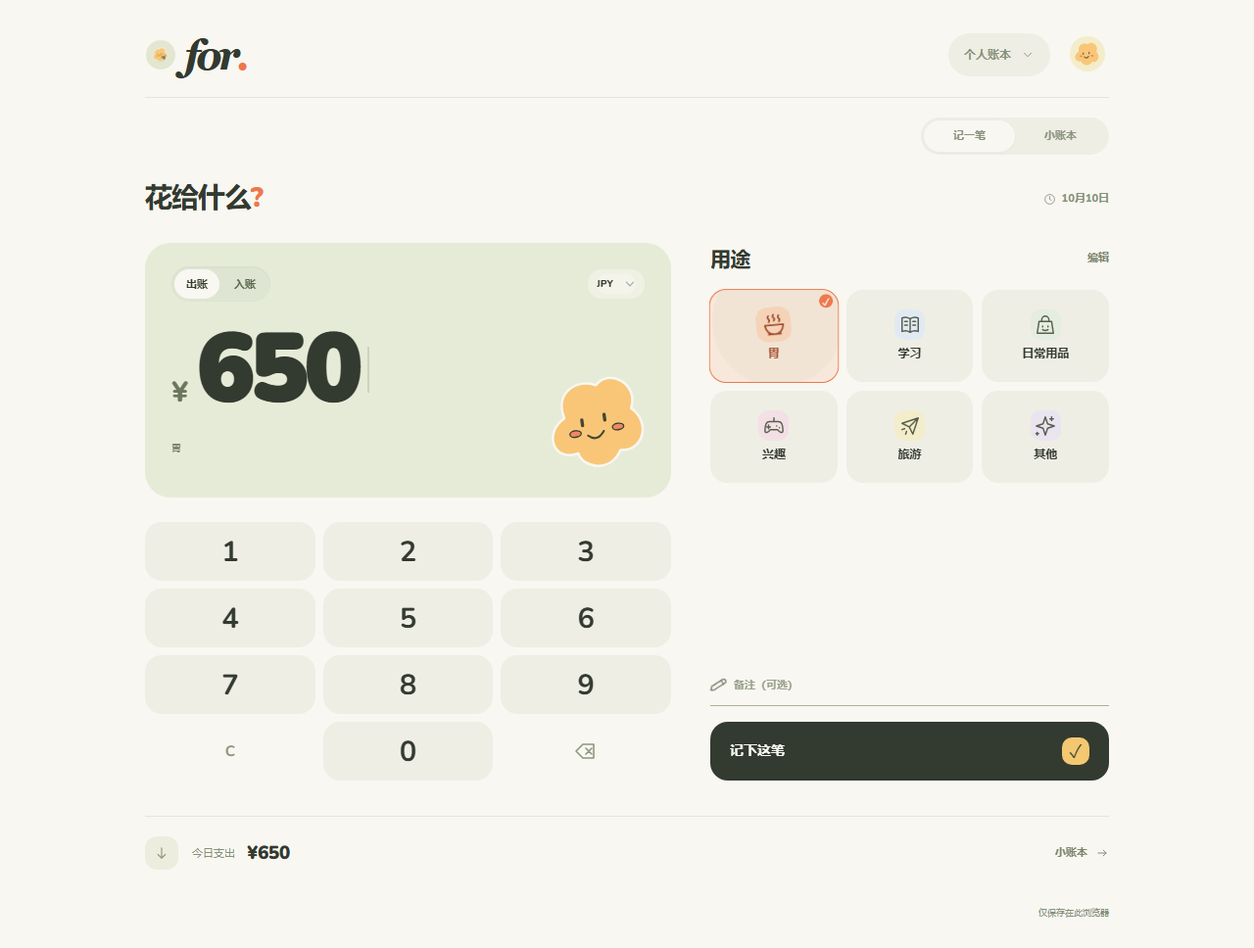
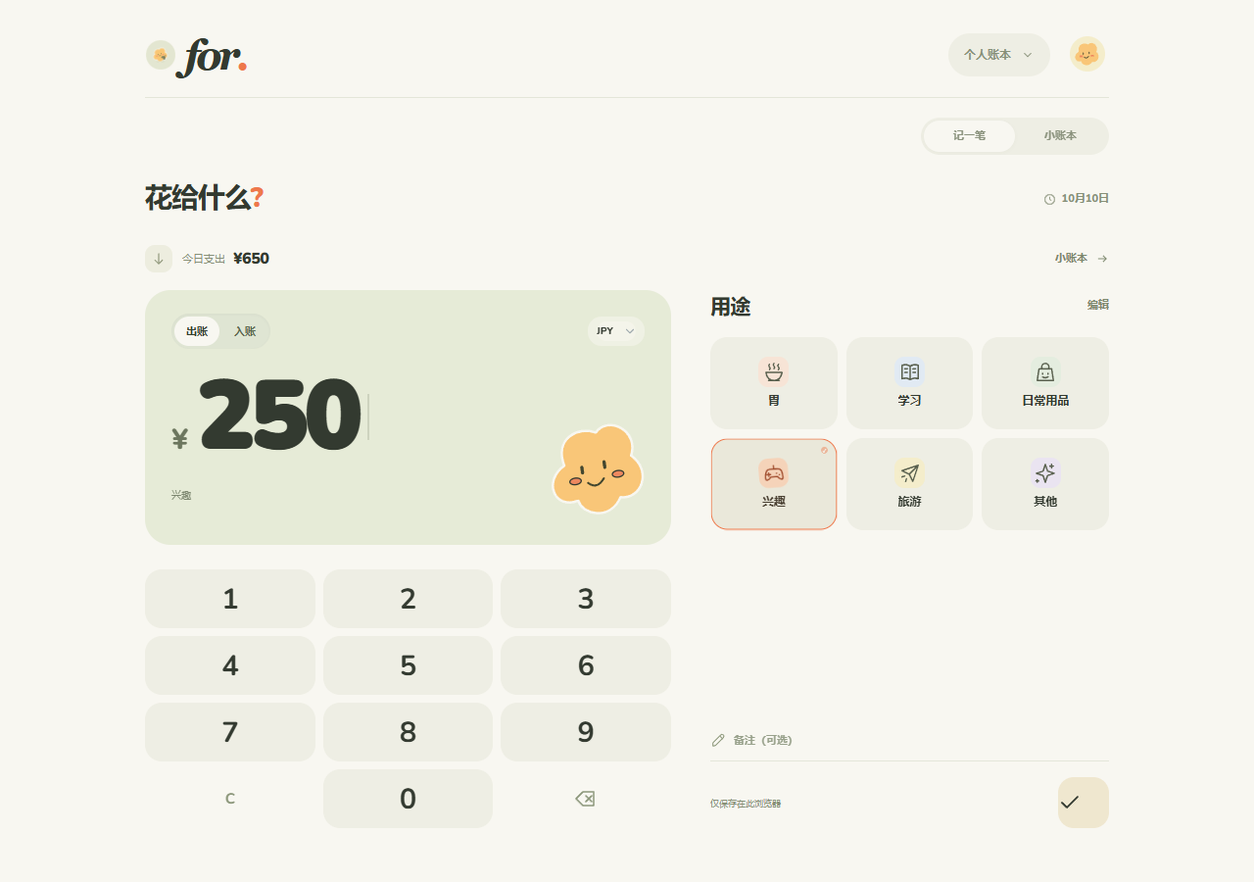
ui: compact bottom confirmation and migrate handoff to Cloud Run

diff --git a/src/App.jsx b/src/App.jsx
@@ -203,6 +203,7 @@ export default function App() {
   const historyExpense = total(history, 'expense'), historyIncome = total(history, 'income');
   const days = [...new Set(history.map(e => e.dayKey))];
   const saveLabel = t(busy ? 'saving' : !amountMinor ? 'enterAmount' : !draft.selected ? 'selectCategory' : draft.type === 'income' ? 'saveIncome' : 'save');
+  const storageStatus = <div className="storage-state"><span id="storage-status" role="status">{t(failed ? 'unavailable' : !ready ? 'loading' : syncFailed ? 'syncFailed' : isRemote ? 'remoteStorage' : 'localStorage')}</span>{failed && <Button mode="plain" size="s" onClick={() => setRetryCount(n => n + 1)}>{t('retry')}</Button>}</div>;
   const secondary = !['record','history'].includes(view);
   const titleKey = { record: draft.type === 'income' ? 'incomeTitle' : 'recordTitle', history: 'historyTitle', settings: 'settingsTitle', profile: 'myProfile', account: 'accountTitle', circles: 'circlesTitle', manage: 'manageTitle' }[view];
   return <AppRoot appearance="light" platform={['ios','macos'].includes(telegram?.platform) ? 'ios' : 'base'} className="for-root" data-ui-kit="telegram-ui"><div className="app-shell">
@@ -212,18 +213,18 @@ export default function App() {
     </header>
     {!secondary && <SegmentedControl className="view-tabs" aria-label={t('navigation')}>{['record','history'].map(v => <SegmentedControl.Item key={v} className="tab" data-view={v} selected={view === v} aria-selected={view === v} onClick={() => navigate(v)}>{t(v === 'record' ? 'record' : 'ledger')}</SegmentedControl.Item>)}</SegmentedControl>}
     <main key={view} ref={pageRef} id={`${view}-view`} className="page"><div className="page-heading"><h1 id={`${view}-title`} tabIndex={-1}>{t(titleKey)}{view === 'record' && <span>?</span>}</h1>{secondary ? <Button mode="plain" size="s" className="text-button" onClick={() => navigate(view === 'settings' ? 'record' : 'settings')}>{t('back')}</Button> : view === 'record' && <Button id="edit-draft-time" mode="plain" className={`date-label date-button ${draft.occurredAt ? 'has-custom-time' : ''}`} aria-label={t('editEntryTime')} disabled={disabled} onClick={() => setTimeEditor({})}><Icon name="clock"/>{new Intl.DateTimeFormat(locale, { month:'short',day:'numeric', ...(draft.occurredAt ? { hour:'2-digit',minute:'2-digit',hourCycle:'h23' } : {}) }).format(new Date(draft.occurredAt || Date.now()))}</Button>}</div>
-    {view === 'record' && <><div className="record-layout"><section ref={stageRef} className={`amount-stage ${draft.raw.length >= 6 ? 'long-amount' : ''} ${draft.type === 'income' ? 'is-income' : ''}`} aria-label={t('amountInput')}><div className="amount-meta"><div className="type-toggle-pill" role="group" aria-label={t('transactionType')}>{['expense','income'].map(type => <Tappable Component="button" type="button" key={type} className={`type-pill-btn ${draft.type === type ? `active type-${type}` : ''}`} aria-pressed={draft.type === type} disabled={disabled} onClick={() => { editDraft({ type, selected:null }); haptic(); }}>{t(type)}</Tappable>)}</div><Select id="currency" className="currency-control" aria-label={t('currency')} value={settings.currency} disabled={disabled} onChange={e => updateSettings({ currency: e.target.value })}>{Object.keys(CURRENCIES).map(c => <option key={c} value={c}>{c}</option>)}</Select></div><div className="amount-line"><span className="currency-symbol">{draft.type === 'income' ? '+' : ''}{CURRENCIES[settings.currency].symbol}</span><output id="amount-display" data-length={draft.raw.length < 6 ? 'short' : draft.raw.length > 9 ? 'long' : draft.raw.length} aria-label={t('currentAmount')}>{amount}</output><span className="input-caret" aria-hidden="true"/></div><div className="amount-bottom"><span>{draft.selected ? categoryLabel(categories.find(c => c.id === draft.selected) || {}, settings.language) : ''}</span></div><Mascot mascotRef={mascotRef}/></section>
+    {view === 'record' && <><div className="today-strip"><span className="today-icon" aria-hidden="true"><Icon name="arrowDown"/></span><div><span>{t('todayTotal')}</span><strong id="today-total">{money(todayExpense)}</strong></div><Button mode="plain" className="text-button" onClick={() => navigate('history')}>{t('ledger')}<Icon name="arrowRight"/></Button></div><div className="record-layout"><section ref={stageRef} className={`amount-stage ${draft.raw.length >= 6 ? 'long-amount' : ''} ${draft.type === 'income' ? 'is-income' : ''}`} aria-label={t('amountInput')}><div className="amount-meta"><div className="type-toggle-pill" role="group" aria-label={t('transactionType')}>{['expense','income'].map(type => <Tappable Component="button" type="button" key={type} className={`type-pill-btn ${draft.type === type ? `active type-${type}` : ''}`} aria-pressed={draft.type === type} disabled={disabled} onClick={() => { editDraft({ type, selected:null }); haptic(); }}>{t(type)}</Tappable>)}</div><Select id="currency" className="currency-control" aria-label={t('currency')} value={settings.currency} disabled={disabled} onChange={e => updateSettings({ currency: e.target.value })}>{Object.keys(CURRENCIES).map(c => <option key={c} value={c}>{c}</option>)}</Select></div><div className="amount-line"><span className="currency-symbol">{draft.type === 'income' ? '+' : ''}{CURRENCIES[settings.currency].symbol}</span><output id="amount-display" data-length={draft.raw.length < 6 ? 'short' : draft.raw.length > 9 ? 'long' : draft.raw.length} aria-label={t('currentAmount')}>{amount}</output><span className="input-caret" aria-hidden="true"/></div><div className="amount-bottom"><span>{draft.selected ? categoryLabel(categories.find(c => c.id === draft.selected) || {}, settings.language) : ''}</span></div><Mascot mascotRef={mascotRef}/></section>
       <section className="purposes"><div className="section-heading"><h2>{t('categories')}</h2>{(!circle || circle.isAdmin) && <Button className="text-button" id="edit-categories" mode="plain" size="s" disabled={disabled} onClick={startEditing}>{t('editCategories')}</Button>}</div><Categories categories={categories} lang={settings.language} selected={draft.selected} disabled={disabled} onSelect={id => { editDraft({ selected:id }); haptic(); }}/></section>
       <section id="keypad" className="keypad" aria-label={t('keypad')}>{['1','2','3','4','5','6','7','8','9',digits ? '.' : 'clear','0','backspace'].map(key => <Tappable Component="button" type="button" className={`key ${key.length > 1 || key === '.' ? 'key-secondary' : ''}`} key={key} data-key={key} disabled={disabled} aria-label={key === 'clear' ? t('clear') : key === 'backspace' ? t('backspace') : key === '.' ? t('decimal') : key} onPointerDown={() => { if (!reduced && !disabled) stageRef.current?.setAttribute('data-press', 'true'); }} onClick={() => { pushKey(key); haptic(); }}>{key === 'clear' ? 'C' : key === 'backspace' ? <Icon name="backspace"/> : key === '.' ? decimal : key}</Tappable>)}</section>
-      <section className="finish" aria-label={t('save')}>{circle && settings.consumers.length > 1 && <Select id="consumer" className="member-select" header={t(draft.type === 'income' ? 'incomeOwner' : 'consumer')} aria-label={t('who')} value={draft.consumer || ''} disabled={disabled} before={<Avatar person={settings.consumers.find(c => c.id === draft.consumer)}/>} onChange={e => editDraft({ consumer:e.target.value })}>{settings.consumers.map(c => <option value={c.id} key={c.id}>{c.name}{c.id === profile.user.id ? ` · ${t('me')}` : ''}</option>)}</Select>}<Input id="note" className="note-field" before={<Icon name="edit"/>} aria-label={t('note')} placeholder={t('notePlaceholder')} value={draft.note} maxLength={160} disabled={disabled} onChange={e => editDraft({ note:e.target.value })}/><Button id="save-expense" className="save-button" stretched size="l" loading={busy} aria-label={saveLabel} disabled={disabled || !amountMinor || !draft.selected || !draft.consumer} after={<span className="save-icon" aria-hidden="true">✓</span>} onClick={save}><span id="save-label">{saveLabel}</span></Button></section></div>
-      <div className="today-strip"><span className="today-icon" aria-hidden="true"><Icon name="arrowDown"/></span><div><span>{t('todayTotal')}</span><strong id="today-total">{money(todayExpense)}</strong></div><Button mode="plain" className="text-button" onClick={() => navigate('history')}>{t('ledger')}<Icon name="arrowRight"/></Button></div></>}
+      <section className="finish" aria-label={t('save')}>{circle && settings.consumers.length > 1 && <Select id="consumer" className="member-select" header={t(draft.type === 'income' ? 'incomeOwner' : 'consumer')} aria-label={t('who')} value={draft.consumer || ''} disabled={disabled} before={<Avatar person={settings.consumers.find(c => c.id === draft.consumer)}/>} onChange={e => editDraft({ consumer:e.target.value })}>{settings.consumers.map(c => <option value={c.id} key={c.id}>{c.name}{c.id === profile.user.id ? ` · ${t('me')}` : ''}</option>)}</Select>}<Input id="note" className="note-field" before={<Icon name="edit"/>} aria-label={t('note')} placeholder={t('notePlaceholder')} value={draft.note} maxLength={160} disabled={disabled} onChange={e => editDraft({ note:e.target.value })}/><div className="save-actions">{storageStatus}<Button id="save-expense" className="save-button save-confirm" size="l" loading={busy} aria-label={saveLabel} title={saveLabel} disabled={disabled || !amountMinor || !draft.selected || !draft.consumer} onClick={save}><Icon name="check"/></Button></div></section></div>
+      </>}
     {view === 'history' && <><div className="history-controls"><SegmentedControl className="period-tabs" aria-label={t('period')}>{['month','all'].map(p => <SegmentedControl.Item key={p} selected={period === p} onClick={() => setPeriod(p)}>{t(p)}</SegmentedControl.Item>)}</SegmentedControl><Select id="history-currency" className="history-currency" aria-label={t('ledgerCurrency')} value={historyCurrency} onChange={e => setHistoryCurrency(e.target.value)}>{Object.keys(CURRENCIES).map(c => <option key={c}>{c}</option>)}</Select></div><section className="history-summary"><div className="history-summary-amount"><span>{t('netBalance')}</span><strong id="history-total">{money(historyIncome - historyExpense, historyCurrency)}</strong><small id="history-total-count">{countText(history.length, settings.language, historyCurrency)}</small></div><div className="balance-details"><div><span>{t('expense')}</span><strong>{money(historyExpense,historyCurrency)}</strong></div><div><span>{t('income')}</span><strong className="income-value">+{money(historyIncome,historyCurrency)}</strong></div></div></section><div className="history-list">{!history.length && <Placeholder className="empty-state" header={t('emptyTitle')} description={t('emptyText')}><span className="empty-face">◡</span><Button mode="filled" onClick={() => navigate('record')}>{t('newEntry')}</Button></Placeholder>}{days.map(day => <section key={day}><div className="history-day">{day === today ? t('today') : new Intl.DateTimeFormat(locale,{ timeZone:'UTC',month:'short',day:'numeric' }).format(new Date(`${day}T12:00:00Z`))}</div>{history.filter(e => e.dayKey === day).map(e => <Cell Component="article" readOnly multiline key={e.id} className={`expense-row ${e.type === 'income' ? 'is-income' : ''}`} before={<span className="category-icon" style={{ background:`var(--${e.category.color})` }}><Icon name={e.category.icon}/></span>} subtitle={<span className="expense-meta"><span className={`consumer-badge consumer-color-${e.member?.color || 'blue'}`}><i/>{e.member?.name || settings.consumers.find(c => c.id === e.consumer)?.name || t('unknownConsumer')}</span><button type="button" className="entry-time" aria-label={t('editEntryTime')} disabled={busy || e.canDelete === false} onClick={() => setTimeEditor({ entry:e, ledgerId:profile.ledgerId })}><time dateTime={e.occurredAt || e.createdAt}>{new Intl.DateTimeFormat(locale,{timeZone:e.timezone || timezone,hour:'2-digit',minute:'2-digit',hourCycle:'h23'}).format(new Date(e.occurredAt || e.createdAt))}</time></button></span>} description={e.note ? <span className="expense-note">{e.note}</span> : undefined} after={<div className="expense-actions"><span className="expense-money">{e.type === 'income' ? '+' : '−'}{money(e.amountMinor,e.currency)}</span>{e.canDelete !== false && <Button className="delete-expense" mode="plain" size="s" disabled={busy} data-delete={e.id} aria-label={t('deleteExpense',{category:categoryLabel(e.category,settings.language),amount:money(e.amountMinor,e.currency)})} onClick={() => removeEntry(e)}><Icon name="trash"/></Button>}</div>}><strong>{categoryLabel(e.category,settings.language)}</strong></Cell>)}</section>)}</div><div className="today-balance"><span>{t('todayBalance')}</span><strong>{money(todayIncome - todayExpense)}</strong></div></>}
     {view === 'settings' && <div className="settings-home">{[['profile','myProfile'],['circles','circlesTitle'],['account','accountTitle']].map(([v,key]) => <Button key={v} mode="plain" className="settings-row" onClick={() => navigate(v)} disabled={!ready}>{v === 'profile' ? <Avatar person={profile?.user}/> : <Icon name={v === 'circles' ? 'users' : 'card'}/>}<span>{t(key)}</span><span aria-hidden="true">›</span></Button>)}<label className="settings-language"><span>{t('language')}</span><Select id="language" className="language-control" aria-label={t('language')} value={settings.language} disabled={disabled} onChange={e => updateSettings({ language:e.target.value })}><option value="zh">中文</option><option value="en">English</option><option value="uk">Українська</option></Select></label></div>}
     {view === 'profile' && profile && <ProfileEditor key={profile.user.id} user={profile.user} t={t} busy={busy} run={run} service={service.current}/>}
     {view === 'account' && profile && <AccountPage t={t} profile={profile} isRemote={isRemote} config={config} language={settings.language} busy={busy} run={run} service={service.current} onGoogle={login} onLogout={logout} copy={copy}/>}
     {view === 'circles' && profile && <CirclesPage t={t} profile={profile} busy={busy} isRemote={isRemote} run={run} service={service.current} onAccount={() => navigate('account')} onSwitch={switchCircle} copy={copy}/>}
     {view === 'manage' && <form id="category-form" onSubmit={saveCategories}><div className="category-editor">{editing.map(c => <div className="editor-row" key={c.id}><span className="category-icon" style={{background:`var(--${c.color})`}}><Icon name={c.icon}/></span><Input className="editor-label" aria-label={t('categoryName',{name:categoryLabel(c,settings.language)})} value={categoryLabel(c,settings.language)} maxLength={24} required onChange={e => setEditing(items => items.map(x => x.id === c.id ? {...x,label:e.target.value} : x))}/><Select className="editor-select" data-field="icon" aria-label={t('categoryIcon',{name:c.label})} value={c.icon} onChange={e => setEditing(items => items.map(x => x.id === c.id ? {...x,icon:e.target.value} : x))}>{ICONS.filter(icon => !['google','users'].includes(icon)).map(icon => <option key={icon} value={icon}>{t(icon)}</option>)}</Select><Select className="editor-select" data-field="color" aria-label={t('categoryColor',{name:c.label})} value={c.color} onChange={e => setEditing(items => items.map(x => x.id === c.id ? {...x,color:e.target.value} : x))}>{COLORS.map(color => <option key={color} value={color}>{t(color)}</option>)}</Select><Button type="button" className="editor-remove" mode="plain" aria-label={t('removeCategory',{name:c.label})} onClick={() => editing.length > 1 ? setEditing(items => items.filter(x => x.id !== c.id)) : notify('keepCategory')}>×</Button></div>)}</div><Button type="button" id="add-category" className="add-category" stretched mode="outline" disabled={editing.length >= 18 || busy} onClick={() => setEditing(items => [...items,{id:crypto.randomUUID(),label:'',icon:'heart',color:'peach'}])}>{t('addCategory')}</Button><div className="editor-actions"><Button type="button" className="text-button" mode="plain" onClick={() => setEditing(structuredClone(editingType === 'income' ? DEFAULT_INCOME_CATEGORIES : DEFAULT_CATEGORIES))}>{t('resetCategories')}</Button><Button className="save-button" type="submit" disabled={busy}>{t('saveCategories')}</Button></div></form>}
-    </main><footer className="app-footer"><span id="storage-status" role="status">{t(failed ? 'unavailable' : !ready ? 'loading' : syncFailed ? 'syncFailed' : isRemote ? 'remoteStorage' : 'localStorage')}</span>{failed && <Button mode="plain" size="s" onClick={() => setRetryCount(n => n + 1)}>{t('retry')}</Button>}</footer>
+    </main>{view !== 'record' && <footer className="app-footer">{storageStatus}</footer>}
     </div>{picker && profile && <CirclePicker profile={profile} t={t} busy={busy} onSwitch={switchCircle} onManage={() => navigate('circles')} onClose={() => setPicker(false)}/>}
     {timeEditor && <TimeEditor value={timeEditor.entry ? timeEditor.entry.occurredAt || timeEditor.entry.createdAt : draft.occurredAt} isDraft={!timeEditor.entry} t={t} busy={busy} onSave={saveTime} onClose={() => setTimeEditor(null)}/>}
     {notice && <Snackbar className={`notice ${notice.error ? 'error' : ''}`} key={notice.id} role="status" duration={notice.error || notice.undoId ? 2147480000 : 2200} onClose={() => setNotice(current => current?.id === notice.id ? null : current)} after={<span className="notice-actions">{notice.undoId && <Snackbar.Button id="undo-button" disabled={busy} onClick={undo}>{t('undo')}</Snackbar.Button>}<Snackbar.Button id="dismiss-notice" aria-label={t('closeNotice')} onClick={() => setNotice(null)}>×</Snackbar.Button></span>}><span id="notice-text">{notice.error ? translateError(notice.error,settings.language) : t(notice.key,notice.values)}</span></Snackbar>}

diff --git a/src/account-styles.css b/src/account-styles.css
@@ -60,3 +60,21 @@
 .for-root .settings-row>h6,.for-root .picker-row>h6{display:flex;align-items:center;gap:16px;text-align:left;width:100%;min-width:0;font-size:14px}.settings-row>h6>span:last-child{margin-left:auto;color:var(--muted)}.picker-row>h6>span:nth-child(2){flex:1;overflow:hidden;text-overflow:ellipsis;white-space:nowrap}.for-root .picker-row{border-radius:12px;padding:12px}
 .for-root .save-button>h6{font-size:14px}.for-root .view-tabs .tab>h6{font-size:11px}.sheet-actions button>h6{font-size:12px}
 @media(max-width:600px){.for-root .ledger-switcher>h6{font-size:10px;gap:6px}.for-root .date-button>h6{font-size:9px}.for-root .settings-row>h6,.for-root .picker-row>h6{font-size:13px}.for-root .text-button>h6{font-size:10px}}
+
+/* Warm pocket paper; amount leads, a quiet summary sits above it, one final stamp below. */
+.for-root{--confirm:#f4c771}
+.for-root #record-view{padding-bottom:calc(20px + env(safe-area-inset-bottom,0px))}
+.for-root #record-view .today-strip{margin:0 0 16px;padding:0;border:0;gap:10px;min-height:32px}
+.for-root #record-view .today-strip>div{gap:8px}
+.for-root #record-view .today-icon{width:28px;height:28px;border-radius:10px}
+.for-root #record-view .today-strip strong{font-size:16px}
+.for-root .save-actions{display:flex;align-items:center;justify-content:space-between;gap:16px;min-height:52px}
+.storage-state{display:flex;align-items:center;gap:8px;min-width:0;color:var(--muted);font-size:9px}
+.storage-state button{min-height:36px;font-size:11px}
+.for-root .finish .save-confirm{width:52px;min-width:52px;max-width:52px;height:52px;min-height:52px;padding:0;border-radius:16px;display:grid;place-items:center;flex:0 0 52px;background:var(--confirm);color:var(--ink);box-shadow:none}
+.for-root .save-confirm>h6{display:flex;align-items:center;justify-content:center;margin:0;line-height:1}
+.save-confirm .for-icon{width:24px;height:24px;stroke-width:1.8}
+.for-root .finish .save-confirm:disabled{background:var(--control);color:#a2a892}
+.for-root .finish .save-confirm:focus-visible{box-shadow:0 0 0 3px var(--paper),0 0 0 5px #a8b48f}
+@media(max-width:600px){.for-root #record-view .today-strip{margin-bottom:12px}.for-root #record-view .today-strip div>span{font-size:10px}.storage-state{font-size:8px}.for-root .finish{padding-bottom:0}}
+@media(max-width:600px){.for-root #record-view{padding-bottom:calc(12px + env(safe-area-inset-bottom,0px))}.for-root #record-view .record-layout{gap:8px}.for-root #record-view .page-heading{margin-bottom:8px}.for-root #record-view .today-strip{margin-bottom:8px}.for-root #record-view .amount-bottom{display:none}.for-root #record-view .category{height:56px}}

diff --git a/DEPLOYMENT_HANDOFF_PLAN.md b/DEPLOYMENT_HANDOFF_PLAN.md
@@ -1,112 +1,80 @@
-# for. Pocket 部署与交接 · v0.5.0
+# for. Pocket · Google Cloud 与本地交接
 
-更新：2026-10-10。旧计划中的 React 19、固定 Liia/Xingrun、先加好友再建四人圈等说明已废弃。以当前实现与用户最新要求为准。
+更新：2026-10-10。正式平台已切换 Google Cloud Run；Render 资料仅作历史归档，不再用于部署。
 
-## 发布状态与用户决定
+## 当前项目与线上
 
-**用户决定：保持 Render 免费实例，暂不部署。** 发布代码放在 `release/v0.5.0`，通过草稿 PR 审阅；不要合并到 `main`。Render 目前跟踪 `main` 并自动部署。
-
-2026-10-10 通过 Render API 实际核对：
-
-| 项目 | 当前线上状态 |
+| 项目 | 状态 |
 | --- | --- |
-| 服务 | `srv-db4i2cij9qps73clbbo0` / for-pocket |
-| 地址 | https://for-pocket.onrender.com |
-| 仓库 / 分支 | honru09/for-pocket / main |
-| 实例 | free，自动部署 yes |
-| 数据目录 | `./data`，没有持久盘 |
-| Telegram | BOT_TOKEN 已配置；菜单检查结果见 VERIFICATION.md |
-| Google | GOOGLE_CLIENT_ID 未配置 |
-| 应用版本 | 旧版；v0.5.0 尚未部署 |
+| 本地根目录 | D:\Projects\Tools\for-pocket |
+| GitHub | https://github.com/honru09/for-pocket |
+| 当前生产地址 | https://for-pocket-698348906987.asia-northeast1.run.app |
+| Cloud Run 服务 / 区域 | for-pocket / asia-northeast1 |
+| 线上版本 | API 实查 v0.5.0；Google 与 Telegram 配置均存在 |
+| 本次改动 | 本地小方形确认按钮与布局调整，尚未发布云端 |
 
-免费服务的临时文件系统会在重启、部署时清空。API 密钥不能使临时盘持久化。不要先部署再补备份；目前没有取得现有线上账单的完整备份。[Render 持久盘说明](https://render.com/docs/disks)
+## 完整迁移
 
-## 已完成的产品实现
+- 原项目 3,879 个文件（含 Git、.env、node_modules、构建、源码与文档）逐一校验文件长度和 SHA256 后迁到 D 盘。
+- 原 work 目录的 35 个文件与验证目录、旧截图、zip、发布记录也已迁入新项目的 work/、outputs/。
+- C 盘原项目文件全部移除；原 for-pocket 空目录被其他进程占用，目录空壳不含代码、配置或数据。
+- 本地运行、打包、许可证与浏览器检查脚本的项目路径已改为 D 盘；全局 Node/Codex/技能安装仍在原位置。
+- work/、outputs/、.env、data/、backups/ 被 Git 和 Docker 排除；历史资料不是当前运行依赖。
 
-- 快速记账首页：大金额、用途、保存；账号与圈子放二级页。
-- React 18.3.1、Vite 8.3.4、TelegramUI 2.1.13，延续纸色、小黄云和短促柔和动效。
-- 默认 JPY，中、英、乌克兰语；支出和收入独立分类，分类可编辑。
-- 使用真实用户；个人账本默认本人，共享账本显示成员。昵称、头像、颜色可编辑。
-- 补记发生时间、修改旧账时间；历史归组与排序使用 occurredAt，保留 createdAt。
-- 清除输入框硬边聚焦方框；默认头像与账本 SVG 箭头已修正。
-- 官方 Google ID token 服务端验证、Telegram initData 校验、统一会话与退出撤销。
-- Google / Telegram 连携预览与确认；原子合并账单、分类、身份、圈子。
-- Life360 圈子关系：72 小时邀请码、预览接受、多圈、多管理员、退出交接、99 人上限。没有固定四人或先加好友限制。
-- 圈内作者可修改时间、删除自己的账；管理员可管理圈内账。个人与各圈账本隔离，退出后立即失去权限。
-- 原子 JSON 事务、旧版迁移、真实 PNG 图标、有效 manifest、按账本保留草稿、前台每 3 秒刷新。
+## 本地使用
 
-详见 [升级说明](docs/UPGRADE-v0.5.md) 与 [验证记录](VERIFICATION.md)。本产品对齐 Life360 的圈子组织；未添加定位、驾驶监控或订阅系统。
-
-## 本地启动与验证
-
-Node.js 22.12+；CI 使用 Node.js 24。
+需要 Node.js 22.12+，CI 使用 Node.js 24。
 
 ```powershell
+cd D:\Projects\Tools\for-pocket
 npm ci
 npm run build
 npm test
 npm run start:prod
 ```
 
-打开 http://127.0.0.1:8787/ 。`npm start` 会先构建；`start:prod` 使用已构建产物。运维测试校验真实构建资源，所以先构建再测试。
+本地预览：http://127.0.0.1:8787/ 。npm start 会先构建，start:prod 使用已有构建。原浏览器本机记录保存在同一 origin 的 localStorage，迁移目录不会改变 origin；未自动刷新用户的草稿页面。
 
-未登录的浏览器记录保存在当前设备。服务器登录后使用服务器账本；本机记录不会自动上传。Google 测试使用隔离 fixture，不能替代真实 OAuth 验收。
+## 记账页调整
 
-## 已补齐的发布工具
+金额仍为主视觉。今日支出和小账本移到金额上方的轻量一行。备注与成员选择之后，最下面是一个 52×52px、16px 圆角的确认方格，只有勾选图标。
 
-| 文件 / 命令 | 用途 |
-| --- | --- |
-| `.github/workflows/ci.yml` | Linux 和 Windows，Node 24，安装、构建、11 项测试；Actions 固定到 commit SHA |
-| `render.yaml` | 可选付费单实例 + 1GB 持久盘蓝图；当前未应用 |
-| `npm run render:inspect` | 只读核对仓库、分支、认证配置及 DATA_DIR 所在持久盘；不打印密钥 |
-| `npm run backup` | JSON 副本、SHA256 清单；不修改源数据 |
-| `npm run restore -- BACKUP_DIRECTORY EMPTY_DATA_DIRECTORY` | 校验所有备份文件后恢复；拒绝覆盖非空目录 |
-| `npm run bot:configure` | 只读检查 bot、菜单及 webhook；不启动轮询 |
-| `npm run bot:configure -- --apply` | 确认 bot 后设置“＋ 记一笔”菜单；不改 webhook、不发聊天消息 |
-| `npm run verify:deployment -- URL --version=0.5.0 --commit=SHA` | 检查实际版本、commit、JS/CSS、manifest、PNG 尺寸 |
+保留 TelegramUI、按压反馈、加载与禁用态、多语 aria-label/title、键盘 Enter 保存与减少动态效果设置。移动端去掉金额面板中重复的用途文字，保留分类选中态；分类触控与数字键仍有足够面积。同步状态在确认键同一行，不再占其下方。
 
-备份含用户资料、账单和会话，只存私有目录。`.env`、`.env.*`、`data/`、`backups/`、日志不进入 GitHub 或 zip；`.env.example` 是空配置模板。
+## Cloud Run 发布配置
 
-## 将来正式部署的顺序
+Dockerfile 提供构建与生产运行镜像。容器以 node 用户运行，HOST=0.0.0.0，PORT=8080；Cloud Run 会注入 PORT。
 
-在用户重新授权部署、确认存储方案后再执行：
+环境：BOT_TOKEN、PUBLIC_URL、GOOGLE_CLIENT_ID、DATA_DIR。真实凭据只设置在私有环境或 Secret Manager，不进入 GitHub、Docker build context 或交付包。Google 授权 JavaScript origin 使用生产域名；本地登录如需使用，再添加实际本机 origin。
 
-1. **先取得并验证当前线上数据备份。** 本机备份不能代替线上备份。免费 Render 没有 Shell/SSH，添加持久盘也会触发部署，不能指望升级后再读取旧容器数据。[Shell 支持范围](https://render.com/docs/ssh)
-2. 用户可选择付费持久盘，或先实现外部持久数据库。`render.yaml` 是准备好的付费方案，未开通、未购买。当前代码只有单进程 JSON 存储，不支持直接配置 PostgreSQL。
-3. 暂停自动部署，确保修改基础设施不会意外部署未保护的数据。备份恢复到持久目录后，设置 `DATA_DIR=/var/data`。
-4. 只在私有配置中设置 `BOT_TOKEN`、`PUBLIC_URL`，Google 登录需要 Web Client ID；保留已有 bot token。
-5. 运行 `render:inspect` 确认 DATA_DIR 实际在持久盘挂载路径下，单实例部署；不要将 API key 配置到前端。
-6. GitHub 两个平台 CI 通过后，审阅 PR；在部署重新获得授权后合并 main 或手动发布确切 commit。
-7. 用健康接口的 version/commit 验证实际产物，而非仅看 `{ok:true}`。
-8. Telegram 中真实登录、记账、修改时间、重开检查；第二位用户验证圈子权限。完成真实 Google 登录与连携后才能标记 OAuth 验收通过。
-9. 确认账单数量与备份一致，重启后仍保留；之后按需要配置自动部署。
+健康与 config 接口包含 version、可选 APP_COMMIT、Cloud Run 注入的 K_REVISION。当前线上旧镜像未提供 commit/revision，不应把版本号相同视为代码已更新。
+
+默认上线检查已切换 Google Cloud 地址：
 
 ```powershell
-npm run verify:deployment -- https://for-pocket.onrender.com --version=0.5.0 --commit=RELEASE_SHA --require-telegram --require-google
+npm run verify:deployment -- --require-google --require-telegram
+# 配置 APP_COMMIT 后再增加 --commit=RELEASE_SHA
 ```
 
-没有 Google 配置时，不应声称其已上线可用；不要为了通过验收随意填入一个 Client ID。
+本次只迁移本地项目和调整 UI，没有修改 Cloud Run 资源、流量、账单或 bot webhook。上线应确认源码触发器跟踪的分支，再推送或手动构建确切 commit。
 
-## Telegram 入口
+## 数据与账号
 
-机器人 `@for_pocket_bot`；菜单目标为 https://for-pocket.onrender.com 。Web 服务器启动不自动设置菜单。`bot.mjs` 是单独的 `/start` 轮询进程，有 webhook 时会停止，避免覆盖现有服务。
+当前仍为单进程原子 JSON 存储：DATA_DIR/_pocket-v2.json，旧文件迁移保留，浏览器预览与已登录服务器账本独立。Google 使用官方服务端 verifyIdToken；Telegram 使用 initData；连携需预览与明确确认。
 
-`https://t.me/for_pocket_bot/app` 仅在 BotFather 已创建对应 short name 时有效；API 菜单检查不能证明该直达链接已配置。需 bot 所有人在 BotFather 核对。[Telegram 官方接口](https://core.telegram.org/bots/api#setchatmenubutton)
+**创建 /data 目录不能提供 Cloud Run 持久化。** 容器停止后未挂载外部存储的数据会消失；单实例配置只能减少副本分歧，不能解决持久化。截图中的旧修订版没有卷，当前修订版的实际持久方案尚未核实。后续发布前应确认外部存储及真实线上数据备份。[Google 容器文件系统说明](https://cloud.google.com/run/docs/container-contract#file_system)
 
-## Google 登录还需要的配置
+```powershell
+npm run backup
+# 先停止应用，恢复到新空目录
+npm run restore -- BACKUP_DIRECTORY EMPTY_DATA_DIRECTORY
+```
 
-创建 OAuth **Web application** Client ID；授权 JavaScript origins：
+备份、账号和会话资料只能放私有目录。本机备份不能代替云端备份。
 
-- `https://for-pocket.onrender.com`
-- `http://127.0.0.1:8787`（本机 API/静态站点）
-- `http://localhost:5173` 或实际使用的 Vite origin（如需开发登录）
+## 验证与历史
 
-设置 `GOOGLE_CLIENT_ID`，无需向本产品提供 Google client secret。[Google 官方设置说明](https://developers.google.com/identity/gsi/web/guides/get-google-api-clientid)
-
-## 运维边界
-
-- 存储只支持单 Node 进程；多实例必须先换共享数据库。
-- v2 数据文件为 `_pocket-v2.json`，旧 JSON 保留；旧会话作废，需要重新登录。
-- 恢复时先停止应用，使用新空目录。中途 I/O 失败时不要启动部分恢复目录，应重新恢复到另一空目录。
-- 动效尊重减少动态效果设置；未测量或承诺所有设备达到 120fps。
-- 本轮 Windows Computer Use 因不能可靠识别浏览器 URL 而停止；后续发布准备通过 CLI/API 完成，没有自动化登录 Google Cloud。
+- D 盘 npm run build 和 11/11 API/运维测试通过。
+- 浏览器检查 320、390、600、768、1280px，验证确认按钮为方形、今日摘要位于金额上方、底部顺序正确、保存/重载/账本/键盘可用、无横向溢出与 pageerror。
+- 当前线上 Google/Telegram 配置通过公开 API 检查；没有操作真实账号，也没有把 fixture 结果当作真实 OAuth 验收。
+- 详细验证见 VERIFICATION.md；旧 Render 蓝图、审计工具和交接记录位于 docs/archive/，不再有活动 Render npm 命令。

diff --git a/docs/archive/RENDER_HANDOFF-v0.5.md b/docs/archive/RENDER_HANDOFF-v0.5.md
@@ -1,0 +1,112 @@
+# for. Pocket 部署与交接 · v0.5.0
+
+更新：2026-10-10。旧计划中的 React 19、固定 Liia/Xingrun、先加好友再建四人圈等说明已废弃。以当前实现与用户最新要求为准。
+
+## 发布状态与用户决定
+
+**用户决定：保持 Render 免费实例，暂不部署。** 发布代码放在 `release/v0.5.0`，通过草稿 PR 审阅；不要合并到 `main`。Render 目前跟踪 `main` 并自动部署。
+
+2026-10-10 通过 Render API 实际核对：
+
+| 项目 | 当前线上状态 |
+| --- | --- |
+| 服务 | `srv-db4i2cij9qps73clbbo0` / for-pocket |
+| 地址 | https://for-pocket.onrender.com |
+| 仓库 / 分支 | honru09/for-pocket / main |
+| 实例 | free，自动部署 yes |
+| 数据目录 | `./data`，没有持久盘 |
+| Telegram | BOT_TOKEN 已配置；菜单检查结果见 VERIFICATION.md |
+| Google | GOOGLE_CLIENT_ID 未配置 |
+| 应用版本 | 旧版；v0.5.0 尚未部署 |
+
+免费服务的临时文件系统会在重启、部署时清空。API 密钥不能使临时盘持久化。不要先部署再补备份；目前没有取得现有线上账单的完整备份。[Render 持久盘说明](https://render.com/docs/disks)
+
+## 已完成的产品实现
+
+- 快速记账首页：大金额、用途、保存；账号与圈子放二级页。
+- React 18.3.1、Vite 8.3.4、TelegramUI 2.1.13，延续纸色、小黄云和短促柔和动效。
+- 默认 JPY，中、英、乌克兰语；支出和收入独立分类，分类可编辑。
+- 使用真实用户；个人账本默认本人，共享账本显示成员。昵称、头像、颜色可编辑。
+- 补记发生时间、修改旧账时间；历史归组与排序使用 occurredAt，保留 createdAt。
+- 清除输入框硬边聚焦方框；默认头像与账本 SVG 箭头已修正。
+- 官方 Google ID token 服务端验证、Telegram initData 校验、统一会话与退出撤销。
+- Google / Telegram 连携预览与确认；原子合并账单、分类、身份、圈子。
+- Life360 圈子关系：72 小时邀请码、预览接受、多圈、多管理员、退出交接、99 人上限。没有固定四人或先加好友限制。
+- 圈内作者可修改时间、删除自己的账；管理员可管理圈内账。个人与各圈账本隔离，退出后立即失去权限。
+- 原子 JSON 事务、旧版迁移、真实 PNG 图标、有效 manifest、按账本保留草稿、前台每 3 秒刷新。
+
+详见 [升级说明](docs/UPGRADE-v0.5.md) 与 [验证记录](VERIFICATION.md)。本产品对齐 Life360 的圈子组织；未添加定位、驾驶监控或订阅系统。
+
+## 本地启动与验证
+
+Node.js 22.12+；CI 使用 Node.js 24。
+
+```powershell
+npm ci
+npm run build
+npm test
+npm run start:prod
+```
+
+打开 http://127.0.0.1:8787/ 。`npm start` 会先构建；`start:prod` 使用已构建产物。运维测试校验真实构建资源，所以先构建再测试。
+
+未登录的浏览器记录保存在当前设备。服务器登录后使用服务器账本；本机记录不会自动上传。Google 测试使用隔离 fixture，不能替代真实 OAuth 验收。
+
+## 已补齐的发布工具
+
+| 文件 / 命令 | 用途 |
+| --- | --- |
+| `.github/workflows/ci.yml` | Linux 和 Windows，Node 24，安装、构建、11 项测试；Actions 固定到 commit SHA |
+| `render.yaml` | 可选付费单实例 + 1GB 持久盘蓝图；当前未应用 |
+| `npm run render:inspect` | 只读核对仓库、分支、认证配置及 DATA_DIR 所在持久盘；不打印密钥 |
+| `npm run backup` | JSON 副本、SHA256 清单；不修改源数据 |
+| `npm run restore -- BACKUP_DIRECTORY EMPTY_DATA_DIRECTORY` | 校验所有备份文件后恢复；拒绝覆盖非空目录 |
+| `npm run bot:configure` | 只读检查 bot、菜单及 webhook；不启动轮询 |
+| `npm run bot:configure -- --apply` | 确认 bot 后设置“＋ 记一笔”菜单；不改 webhook、不发聊天消息 |
+| `npm run verify:deployment -- URL --version=0.5.0 --commit=SHA` | 检查实际版本、commit、JS/CSS、manifest、PNG 尺寸 |
+
+备份含用户资料、账单和会话，只存私有目录。`.env`、`.env.*`、`data/`、`backups/`、日志不进入 GitHub 或 zip；`.env.example` 是空配置模板。
+
+## 将来正式部署的顺序
+
+在用户重新授权部署、确认存储方案后再执行：
+
+1. **先取得并验证当前线上数据备份。** 本机备份不能代替线上备份。免费 Render 没有 Shell/SSH，添加持久盘也会触发部署，不能指望升级后再读取旧容器数据。[Shell 支持范围](https://render.com/docs/ssh)
+2. 用户可选择付费持久盘，或先实现外部持久数据库。`render.yaml` 是准备好的付费方案，未开通、未购买。当前代码只有单进程 JSON 存储，不支持直接配置 PostgreSQL。
+3. 暂停自动部署，确保修改基础设施不会意外部署未保护的数据。备份恢复到持久目录后，设置 `DATA_DIR=/var/data`。
+4. 只在私有配置中设置 `BOT_TOKEN`、`PUBLIC_URL`，Google 登录需要 Web Client ID；保留已有 bot token。
+5. 运行 `render:inspect` 确认 DATA_DIR 实际在持久盘挂载路径下，单实例部署；不要将 API key 配置到前端。
+6. GitHub 两个平台 CI 通过后，审阅 PR；在部署重新获得授权后合并 main 或手动发布确切 commit。
+7. 用健康接口的 version/commit 验证实际产物，而非仅看 `{ok:true}`。
+8. Telegram 中真实登录、记账、修改时间、重开检查；第二位用户验证圈子权限。完成真实 Google 登录与连携后才能标记 OAuth 验收通过。
+9. 确认账单数量与备份一致，重启后仍保留；之后按需要配置自动部署。
+
+```powershell
+npm run verify:deployment -- https://for-pocket.onrender.com --version=0.5.0 --commit=RELEASE_SHA --require-telegram --require-google
+```
+
+没有 Google 配置时，不应声称其已上线可用；不要为了通过验收随意填入一个 Client ID。
+
+## Telegram 入口
+
+机器人 `@for_pocket_bot`；菜单目标为 https://for-pocket.onrender.com 。Web 服务器启动不自动设置菜单。`bot.mjs` 是单独的 `/start` 轮询进程，有 webhook 时会停止，避免覆盖现有服务。
+
+`https://t.me/for_pocket_bot/app` 仅在 BotFather 已创建对应 short name 时有效；API 菜单检查不能证明该直达链接已配置。需 bot 所有人在 BotFather 核对。[Telegram 官方接口](https://core.telegram.org/bots/api#setchatmenubutton)
+
+## Google 登录还需要的配置
+
+创建 OAuth **Web application** Client ID；授权 JavaScript origins：
+
+- `https://for-pocket.onrender.com`
+- `http://127.0.0.1:8787`（本机 API/静态站点）
+- `http://localhost:5173` 或实际使用的 Vite origin（如需开发登录）
+
+设置 `GOOGLE_CLIENT_ID`，无需向本产品提供 Google client secret。[Google 官方设置说明](https://developers.google.com/identity/gsi/web/guides/get-google-api-clientid)
+
+## 运维边界
+
+- 存储只支持单 Node 进程；多实例必须先换共享数据库。
+- v2 数据文件为 `_pocket-v2.json`，旧 JSON 保留；旧会话作废，需要重新登录。
+- 恢复时先停止应用，使用新空目录。中途 I/O 失败时不要启动部分恢复目录，应重新恢复到另一空目录。
+- 动效尊重减少动态效果设置；未测量或承诺所有设备达到 120fps。
+- 本轮 Windows Computer Use 因不能可靠识别浏览器 URL 而停止；后续发布准备通过 CLI/API 完成，没有自动化登录 Google Cloud。
